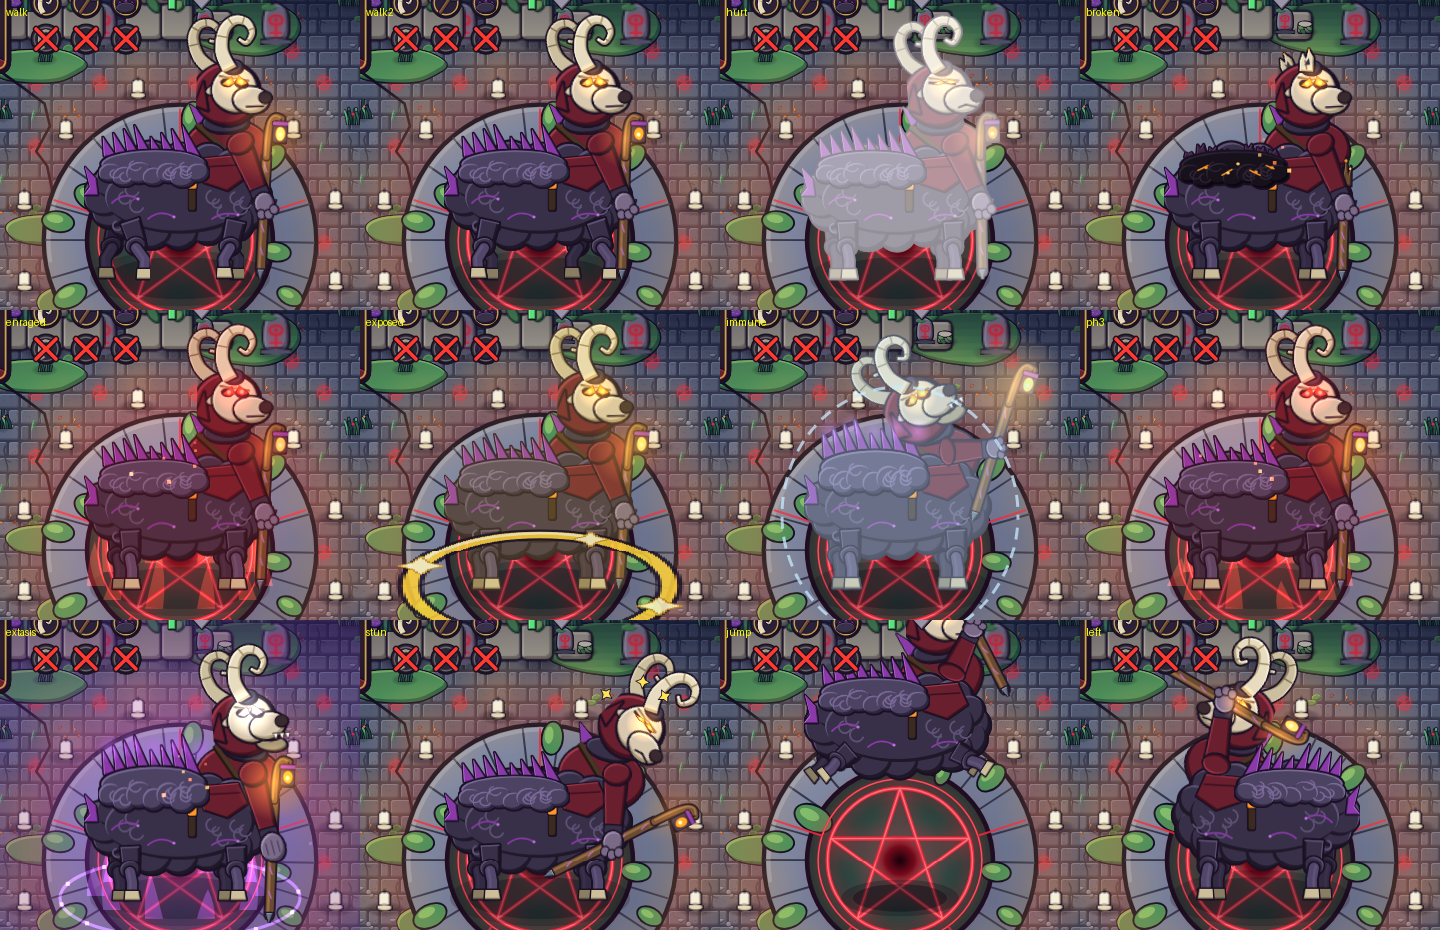
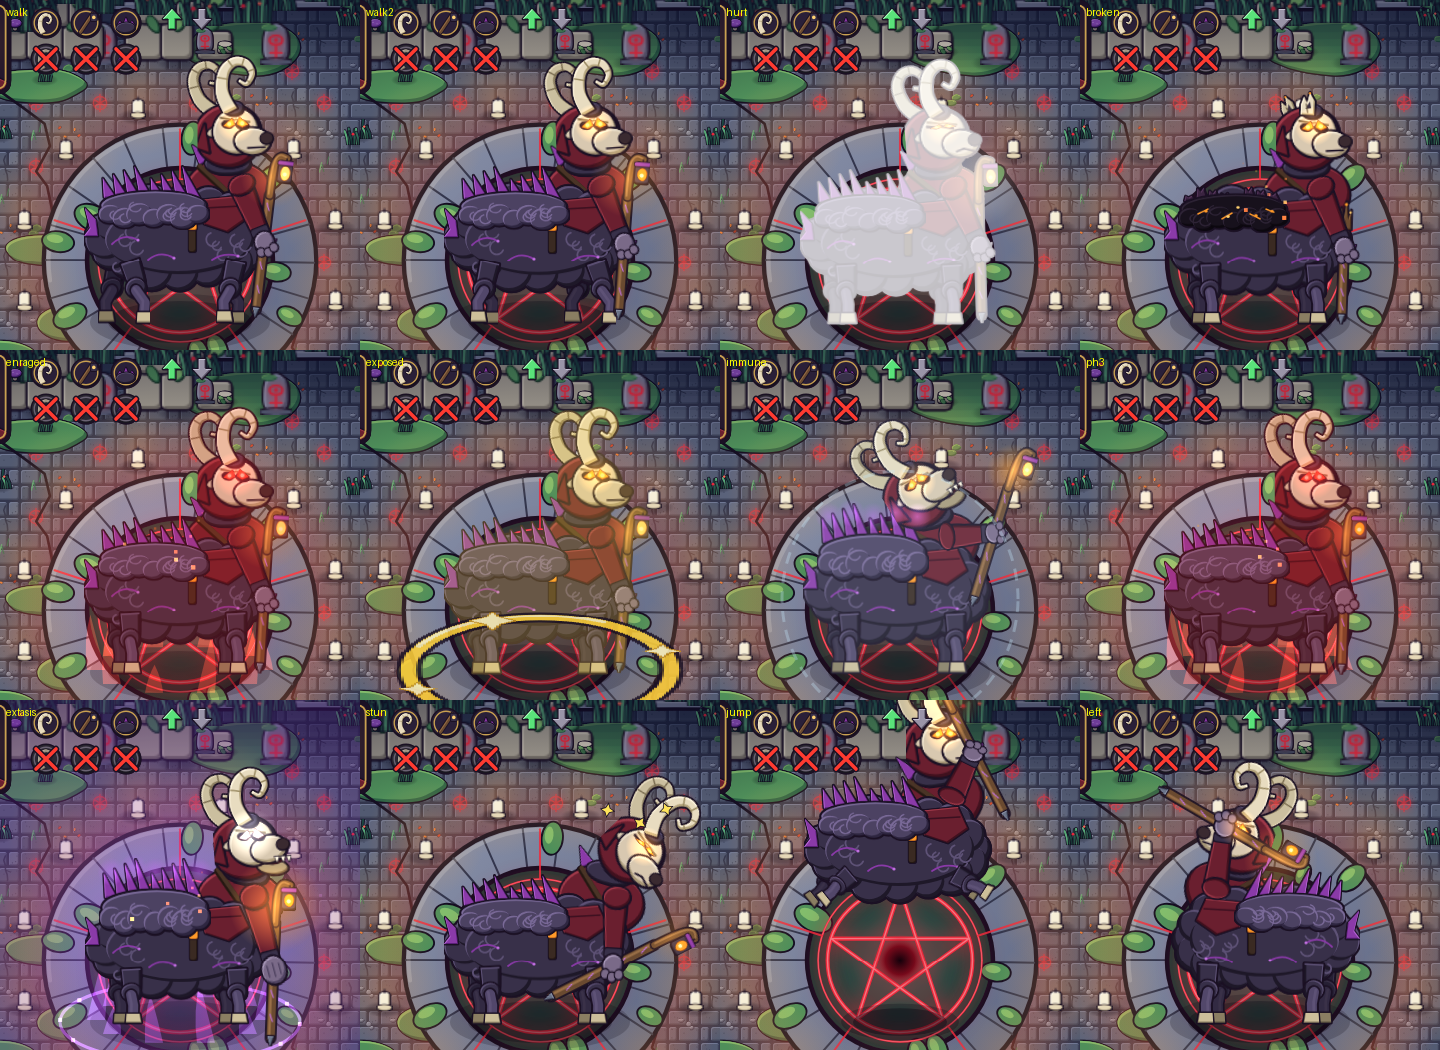
Arte del Pastor J1 terminado; lógica del jefe en curso
Claude-Session: https://claude.ai/code/session_01SEMe6xkUsnkQXVwvcKxXxh

diff --git a/tools/asset-preview/index.html b/tools/asset-preview/index.html
@@ -232,13 +232,13 @@
   function bossDraw(t) {
     if (!A.bossIds) return; var c = $('bossCv'), x = c.getContext('2d'), id = $('bid').value || 'pastor';
     x.imageSmoothingEnabled = false; x.drawImage(ground, 0, 0);
-    var s = bossState(t), bx = 480, by = 270;
+    var s = bossState(t), bx = 480, by = 250;
     if (s.w && $('btele').checked && s.windup) {
       var f = s.facing, k = BCOL[s.w], o = { p: s.pp, a: f > 0 ? 0 : Math.PI, sig: s.w === 'embestida' || s.w === 'salto' || s.w === 'pisoton' };
       if (k === 'arc') { o.r = 190; } if (k === 'rect') { o.w = 90; o.len = 420; } if (k === 'ring') { o.r = 300; o.th = 24; o.gap = Math.PI / 3; o.a = f > 0 ? Math.PI : 0; } if (k === 'circle') { o.r = 120; } if (k === 'cone') { o.r = 300; } if (k === 'summon') { o.r = 150; } if (k === 'spore') { o.r = 60; }
-      A.drawBossTele(x, k, bx, by + 44, o);
+      A.drawBossTele(x, k, bx, by, o);
     }
-    if (s.w === 'pisoton' && s.strike) A.drawBossWave(x, bx, by + 44, 40 + 260 * s.pp, { gap: Math.PI / 3, a: s.facing > 0 ? Math.PI : 0 });
+    if (s.w === 'pisoton' && s.strike) A.drawBossWave(x, bx, by, 40 + 260 * s.pp, { gap: Math.PI / 3, a: s.facing > 0 ? Math.PI : 0 });
     if (s.desperate) A.drawBossArenaTint(x, 960, 540, t, 1);
     if ($('bplayer').checked) { var pl = A.sprite('player', 'idle:' + ((t / 300) | 0)); x.drawImage(pl, 250 - 24, 330 - 24); }
     A.drawBoss(id, x, bx, by, s);

diff --git a/games/card-swarm/src/assets_boss.js b/games/card-swarm/src/assets_boss.js
@@ -520,7 +520,7 @@
   function chain() { var m = arguments[0], i; for (i = 1; i < arguments.length; i++) m = mM(m, arguments[i]); return m; }
 
   // ===================================================================== PASTOR: pose (todo en espacio L: origen = suelo bajo el centro del cuerpo, +x = adelante, +y = abajo)
-  var GY = 44;                     // el origen del suelo esta GY px por debajo de la posicion logica (x,y) de la entidad
+  var GY = 88;                     // el origen del suelo esta GY px por debajo de la posicion logica (x,y) de la entidad
   var NAMES = ['barrido', 'embestida', 'pisoton', 'salto', 'abanico', 'llamada', 'esporas', 'estampida', 'extasis'];
   var DEATH_MS = 3200;
   var HS = 0.78;                   // escala de dibujo de los cuernos

diff --git a/games/card-swarm/ASSETS_API.md b/games/card-swarm/ASSETS_API.md
@@ -200,3 +200,115 @@ Ancla = bottom-center salvo cielo/suelo (origen 0,0 a 960x540). Tamano final:
 - Orden de dibujo: cada prop tiene `sort`; los actores usan SUS PIES (`y`). Marlo con `y` > 308 queda delante de los edificios; con y<308 detras.
 - `Assets.drawVillageLight(ctx,t,opts)` incluye vineta y el brillo del portal. Coste medido: ~5 ms/frame para `drawVillage` completo (Chromium headless).
 - Vista previa: `tools/asset-preview/index.html?game=card-swarm` (seccion "Aldea Rescoldo": hora, animacion de NPC, colisiones). Capturas: `studio/docs/capturas-aldea/`.
+
+
+---
+# Jefes v4 (J1): Pastor Corrupto, centauro-carnero (src/assets_boss.js, cargado tras assets_village.js; solo arte, sin logica)
+Script clasico que extiende `window.Assets`. Estilo del juego (contorno grueso, color plano + sombra + brillo). Tamanos "final" = base x2. Todo mira a la DERECHA (el dibujo compuesto voltea con `facing`). `t` SIEMPRE en ms. Diseno: `DESIGN-v4-jefes.md` 3.2. Vista previa: `tools/asset-preview/index.html?game=card-swarm` -> seccion "Jefe" (selector de ataque/progreso, fase, vel., salto, herido/furia/desesperado/ventana/aturdido/inmune/rugido, partes rotas, muerte, anclajes). Capturas: `studio/docs/capturas-jefes-j1/`.
+
+## 1) Dibujar al jefe compuesto (lo unico que necesita la logica)
+`Assets.drawBoss('pastor', ctx, x, y, state)` dibuja sombra grande + aura + jefe + efectos propios (polvo, esporas, estrellas, aro de ventana, campo de inmunidad). Devuelve `{canvas,ox,oy,pose,layout}`.
+- **(x,y) = posicion logica de la entidad = centro del cuerpo (circulo de colision `r` 74)**. El sprite se coloca solo: los pies quedan en `y + 88` (`Assets.BOSS.pastor.gy`), la sombra en `y + 82`. **Ordenar por profundidad con `y + 88`** (pies) contra Marlo.
+- Tamano visual aprox.: 250 de alto x 250 de ancho (incl. cuernos y cayado en reposo: de y-182 a y+88; de x-100 a x+130). El circulo logico `r` 74 cubre el barril; cuernos/cabeza/cayado sobresalen (usar `bossAnchors` para hitboxes hijas).
+- Coste medido: ~2.8 ms/frame en Chromium headless sin GPU (1 canvas 640x470 compartido + 20 drawImage). Cachea sprites una sola vez; no hay `shadowBlur`.
+- `Assets.renderBoss('pastor', state)` -> `{canvas, ox, oy}`: solo el jefe (sin sombra/aura/fx de suelo), el canvas es COMPARTIDO y se sobrescribe en cada llamada (para subirlo a una textura Phaser: origen del suelo en (ox,oy), el pie queda en oy, la posicion logica en (ox, oy-88)).
+- `Assets.drawBossShadow(ctx,x,y,state)` (sombra sola; con `state.lift` se encoge y oscurece = telegrafia del salto). `state.noShadow`/`state.noFx` desactivan sombra / aura+fx.
+
+### state (todo opcional salvo `t`; el jefe no guarda estado propio, lo pintas desde tu IA)
+| campo | tipo | efecto |
+|---|---|---|
+| `t` | ms | reloj para idle/trote/parpadeos (obligatorio) |
+| `facing` | 1 / -1 | 1 mira a la derecha, -1 a la izquierda |
+| `phase` | 1-3 | ojos: F1 naranja, F2 rojo, F3 blanco; F3 suma brasas en el lomo |
+| `moving` | 0..1 o bool | trote de patas (4 frames, diagonales alternas) |
+| `speed` | px/s | velocidad real: marca el ritmo de trote (65 F1 / 80 F2 / 95 F3 = lento y pesado; >=400 = galope) |
+| `hurt` | 0..1 o bool | flash blanco sobre la silueta + retroceso + cabeza "dano" (usar 0.6-1 durante ~100 ms) |
+| `broken` | `{cuernos,cayado,vellon}` bool | cuernos: muñones; cayado: palo astillado y SIN farol (ni brillo); vellon: manto quemado con grietas y brasas que suben |
+| `windup` + `wp` | nombre + 0..1 | **telegrafia** del ataque; `wp` = progreso (tiempo/duracion_telegrafia). Sin `wp` hace bucle de 1,1 s (solo preview) |
+| `strike` + `sp` | nombre + 0..1 | **golpe/ejecucion** del ataque; `sp` = progreso. `strike` tiene prioridad sobre `windup` |
+| `lift` | px | altura del salto (0 = suelo). Con `lift>2` se pliegan las patas, el cuerpo se alza `lift` px y la sombra se achica |
+| `enraged` | bool | Furia: ojos rojos, tinte rojo pulsante y llamas rojas de aura |
+| `desperate` | bool | Exstasis del Rebano: cayado clavado, puas al maximo, ojos blancos, aura morada, anillo de runas, temblor. Equivale a `windup:'extasis'` |
+| `exposed` | bool | ventana de dano: aro dorado en el suelo (fx_window_ring) + tinte dorado pulsante |
+| `stun` | bool | aturdido tras chocar (embestida): cabeza gacha, estrellitas, cayado caido |
+| `immune` | bool | puerta de fase (3 s): tinte azulado + campo de puntos alrededor |
+| `roar` | 0..1 | rugido (intro / cambio de fase): cabeza arriba boca abierta, brazos abiertos, temblor |
+| `dying` + `dt` | bool + ms | muerte (ver 4); `dt` = ms desde que muere; `Assets.BOSS.pastor.deathMs` = 3200 (a partir de ahi no dibuja nada) |
+| `alpha` | 0..1 | transparencia global (p. ej. entrada) |
+
+Nombres de ataque (`windup` / `strike`; `Assets.bossPoseNames()`): `barrido` (arco con cayado), `embestida`, `pisoton`, `salto`, `abanico`, `llamada`, `esporas`, `estampida`, `extasis`. Lectura de cada pose (para que la telegrafia por silueta funcione, regla 1 del doc):
+| ataque | windup (wp 0->1) | strike (sp 0->1) |
+|---|---|---|
+| barrido | cayado se alza hacia atras/arriba sobre la cabeza, torso atras | barrido de 180 grados hacia delante, torso adelante, cabeza ruge |
+| embestida | cabeza y cuernos bajan, agacha el tren delantero, la pata delantera escarba, polvo, ojos rojos, cayado como lanza | galope (`speed` >= 520), cabeza gacha, lineas de velocidad y polvo detras |
+| pisoton | se encabrita (tren delantero arriba, patas plegadas, brazos arriba) | pisa de golpe: cuerpo +8 px, temblor, polvo (la onda la dibujas con `drawBossWave`) |
+| salto | se agacha (cuerpo aplastado), ojos se encienden | aterrizaje: aplasta, cayado se clava hacia delante, polvo |
+| abanico | puas del lomo se erizan y brillan, brazos abiertos, retrocede 3 px | puas al maximo con brillo naranja, rebote |
+| llamada | cayado en vertical, cabeza arriba y aullido, anillo de runas moradas en el suelo, farol brillante | pisotazo con cayado |
+| esporas | se encorva, el vellon tiembla y suelta nubes verdes (fx_spore_puff) | estallido de esporas |
+| estampida | igual que embestida pero mas rapida/agitada | galope |
+| extasis | (estado fijo) cayado clavado, aura morada | - |
+Duraciones de telegrafia: las del doc (barrido 800, embestida 900, pisoton 700, salto 1000, abanico 600, llamada 800, esporas 1000, estampida 700 ms): el dibujo no impone tiempos, solo reparte la pose por `wp`.
+
+## 2) Anclajes y hitboxes hijas
+`Assets.bossAnchors('pastor', state)` -> objeto con `{x,y,r}` en px **relativos a (x,y) de la entidad**, ya con `facing` y `lift` aplicados (sumar a la posicion del jefe). Sigue las animaciones: usa el MISMO state que `drawBoss`.
+| clave | que es | r | reposo (facing 1) |
+|---|---|---|---|
+| `body` | centro del barril (hurtbox de contacto) | 74 | (0, -4) |
+| `head` | cabeza | 26 | (55, -105) |
+| `cuernos` | parte rompible "cuernos" | 30 | (51, -130) |
+| `cayado` | parte rompible "cayado" (farol) | 26 | (87, -58) |
+| `vellon` | parte rompible "vellon" (lomo) | 34 | (-26, -40) |
+| `hand` / `shoulder` / `mouth` / `eyes` / `staffTip` | mano que agarra el cayado, hombro, hocico (origen de esporas/rugido), ojos, punta del cayado | 12/10/10/8/8 | - |
+| `feet` | suelo bajo el cuerpo (orden de profundidad) | 0 | (0, 88) |
+| `groundShadow` | centro de la sombra | 86 | (0, 82) |
+Valores de reposo exactos: llamar a la funcion (cambian con la pose, p. ej. en `embestida` la cabeza avanza a x=104 y en `barrido` el cayado sube a y=-126).
+
+## 3) Piezas sueltas (sprites; anclas y pivotes para quien quiera recomponer)
+Todos en `Assets.sprite(name, frame)`. El dibujo compuesto usa jerarquia cuerpo -> torso -> cabeza/hombros -> cuernos/ojos; mano y cayado por cinematica inversa simple (el brazo se estira 0,7-1,45x hasta la mano). Coordenadas en espacio L: origen = suelo bajo el centro del cuerpo, +x adelante, +y abajo (la entidad esta en (0,-88)).
+| sprite | final | frames | pivote/ancla (px finales, dentro del sprite) -> colocacion en L |
+|---|---|---|---|
+| `boss_pastor_body` | 192x144 | 0-1 idle (respiracion, ~1,6 Hz) | arriba-izq en (-96,-174); rota/aplasta alrededor de los pies traseros (-55,-8) |
+| `boss_pastor_leg` | 40x72 | 0-3 trote lado cercano (contacto, bajo el cuerpo, atras, levantada), 4-7 lado lejano (mas oscuro) | cadera (20,10) -> caderas en x -62 (lejana trasera), -50, 44 (lejana delantera), 56 (cercana delantera), y=-62. Diagonales en fase |
+| `boss_pastor_torso` | 96x112 | 0 idle, 1 windup (puas erizadas), 2 golpe | cintura = centro-abajo (48,112) -> (46,-84); gira alrededor de la cintura |
+| `boss_pastor_head` | 64x64 | 0 neutro, 1 rugido, 2 dano/aturdido | cuello (32,56) -> torso+(8,-80), escala x1,2 al dibujar |
+| `boss_pastor_eyes` | 24x12 | 0 naranja, 1 rojo, 2 blanco | centro (12,6) -> cabeza (0,-33). Brillo aditivo aparte |
+| `boss_pastor_horn_l` / `_r` | 48x64 | 0 entero, 1 roto (muñon) | base (16,60) -> cabeza (-20,-42) rot -0.42 (lejano) y (-6,-44) (cercano), escala 0,78 |
+| `boss_pastor_staff` | 40x176 | 0-1 entero (farol, 6 fps), 2 roto | agarre (20,100) -> en la mano; punta de hierro 76 px bajo el agarre; farol 66 px sobre el agarre |
+| `boss_pastor_arm` | 44x84 | 0 cercano, 1 lejano (oscuro), 2 punyo | hombro (22,12); mano a ~56 px |
+| `boss_pastor_fleece` | 112x80 | 0 entero (manto + 8 puas moradas), 1 roto/brasas | base-centro (56,80) -> (-26,-96); se escala en y con `abanico` |
+| `boss_pastor_portrait` | 96x96 | 0 neutro, 1 furia, 2 herido (marco incluido) | `Assets.drawBossPortrait('pastor', ctx, x, y, {size:96, mood:0|1|2})` (x,y esquina sup. izq.) para barra e intro |
+
+## 4) Muerte espectacular (`dying:true, dt:ms`)
+0-150 ms flash blanco; 0-800 tambalea (parpadeos blancos, temblor, rugido de dolor); 500 ms: cuernos, cayado y vellon salen despedidos girando (solo las piezas que no estuvieran ya rotas); 800-1800 cae de rodillas (patas plegadas, cabeza gacha); 1800-3200 se desintegra en brasas (cuadros + brasas aditivas). A los 3200 no pinta nada (puedes quitar la entidad). Recomendado: `fx.shake(12, 900)`, hit-stop 120 ms, y para "congelado de 400 ms" del Exstasis basta con no avanzar `dt`.
+
+## 5) Telegrafias y ondas (dibujan en `ctx`, coordenadas de juego)
+- `Assets.drawBossTele(ctx, kind, x, y, o)`: `kind` = `circle{r}` | `arc{r,inner,arc}` (barrido: `arc` 180 grados, `inner` 40 = rosquilla) | `cone{r,arc}` (abanico 70 grados) | `rect`/`lane{w,len}` (embestida 90x520, estampida 90x420) | `ring{r,th,gap}` (pisoton: anillo creciente con hueco de 60 grados y chevrones verdes en el hueco) | `donut{r,inner}` | `summon{r}` (llamada, morado con runas) | `spore{r}` (esporas, verde punteado que se cierra).
+  `o`: `p` 0..1 progreso (relleno alfa 0,12->0,40 + capa de progreso), `a` angulo (rad), `color` (`red|green|purple|orange|gold|blue`; por defecto rojo, `summon` morado, `spore` verde), `fix` (por defecto `p>=0.75`: contorno SOLIDO = objetivo fijado; antes es discontinuo y animado), `sig:true` ataque firma (doble contorno), `t` ms. Alfa maximo ~0,4: Marlo siempre se ve debajo.
+- `Assets.drawBossWave(ctx, x, y, r, {th:24, gap:rad (0 = sin hueco), a:centro del hueco, style:0 rojo|1 morado (extasis)|2 verde, alpha})`: onda anular con hueco, hecha con `fx_shockwave_seg` (un segmento por ~46 px).
+- `Assets.drawBossVignette(ctx, W, H, p, '255,30,20')` vineta roja de ataque firma; `Assets.drawBossArenaTint(ctx, W, H, t, a)` tinte morado de arena del Exstasis.
+
+## 6) VFX / proyectiles / arena / iconos nuevos (nombre, tam final, frames, ancla)
+| sprite | final | frames (anim) | notas |
+|---|---|---|---|
+| `proj_boss_thorn` | 32x16 | 0-1 (`loop` 10 fps) | pua grande morada con punta naranja; apunta a la derecha (rotar al angulo); centrada |
+| `fx_shockwave_seg` | 128x32 | 0 rojo, 1 morado, 2 verde | segmento de onda (lo usa `drawBossWave`) |
+| `fx_boss_crack` | 96x96 | 0-2 (`grow`, no cicla) | grieta del suelo (salto, pisoton), centrada |
+| `fx_part_break` | 128x128 | 0-4 (`burst` 14 fps, no cicla) | estallido al romper una parte; centrado en la parte |
+| `fx_window_ring` | 128x128 | 0-3 (`loop` 8 fps) | aro dorado; el dibujo compuesto ya lo usa si `exposed` |
+| `fx_boss_spike` | 28x44 | 0-3 (`rise` [0,1,2] 12 fps; `sink` [3,0]) | estaca de suelo (espinas del Salto, F2); ancla = base-centro (14,42) |
+| `fx_charge_trail` | 96x56 | 0-3 (`puff` 10 fps) | polvo de la embestida; centrado, mira a la derecha (voltear segun direccion) |
+| `fx_spore_puff` | 32x32 | 0-3 (`puff` 8 fps) | nube de espora/vellon, centrada (escalar 1-2,5x) |
+| `obs_log` | 64x64 | 0 entero, 1 agrietado, 2 escombro | tronco de arena; ancla = centro del circulo de colision (32,40) -> dibujar en (x-32, y-40); r de colision 28 |
+| `fx_thorn_patch` | 80x56 | 0-2 (`sway` [0,1,2,1] 3 fps) | zarzal de espinas de borde F2 (verde): ancla centro (40,38); escalable para cubrir la zona lenta |
+| `trophy_pastor_horn` / `_staff` / `_fleece` | 32x32 | 0 normal, 1 ROTO (gris con aspa roja) | icono de parte para la barra (dibujar a 16x16 = escala 0,5) y trofeo de botin |
+| `icon_weak` / `icon_resist` | 24x24 | 1 | flecha verde arriba / gris abajo (12 px a escala 0,5) |
+Reusa existentes: `fx_fire_cell` (44x44, celdas del perimetro ardiendo F3, naranja), `shockwave` (onda sin dano del aterrizaje de la entrada), `smoke_big`, `explosion`.
+
+## 7) Notas para la logica / HUD
+- **No tapar a Marlo**: todas las telegrafias <= 0,4 de alfa y sin relleno solido; el jefe se ordena por `y + 88` (si Marlo esta mas abajo se dibuja delante). El aura/aro de ventana van en el suelo bajo el jefe.
+- Entrada: `drawBoss` con `windup:'salto', wp` (agachado) -> `lift` creciente (aire) -> `strike:'salto'` al aterrizar + `shockwave` + `fx.shake(8,220)`. Rugido de intro/fase: `roar` 0->1 ~600 ms.
+- Partes: hitboxes hijas = `bossAnchors().cuernos/cayado/vellon`; al romperse pon `broken.X=true` y lanza `fx_part_break` en el ancla.
+- Cayado roto: sin farol (la Llamada del rebano pasa a gusanos); cuernos rotos: se ve el muñon; vellon roto: brasas visibles desde cualquier distancia.
+- Nombres de jefes/fases para la barra: `Assets.BOSS.pastor` = `{name:'El Pastor Corrupto', title:'Bestia del Rebaño', phases:['El Rebaño','La Corrupción','Cenizas'], despair:'Éxtasis del Rebaño', r:74, gy:88, w:250, h:250, deathMs:3200}`; `Assets.bossIds()`, `Assets.bossInfo(id)`.
+- Karceron y Letea (J2) usaran la misma API (`drawBoss(id,...)`, `bossAnchors`, `drawBossPortrait`); sus sprites iran en `assets_boss_karceron.js`/`assets_boss_letea.js` segun la lista 6.1 del diseno.

diff --git a/tools/asset-preview/README.md b/tools/asset-preview/README.md
@@ -5,3 +5,4 @@ Sprites: boton "PNG spritesheet" por sprite y "Exportar atlas PNG" (+JSON). Soni
 Selector de bioma (bosque/cripta) y arena animada con antorchas, niebla y vineta.
 Para Swarm Hand v2 abrir `index.html?game=card-swarm` (carga assets.js + assets_enemies2.js).
 Aldea de Rescoldo (Swarm Hand v3): con `?game=card-swarm` aparece la vista "Aldea" (hora dia/ocaso/noche, animacion de NPC, colisiones) y los sprites `npc_*`, `portrait_*`, `vil_*`, `ui_*` en la lista.
+Jefes (Swarm Hand v4, J1): con `?game=card-swarm` aparece la vista "Jefe" (Pastor Corrupto: ataque/progreso, fase, velocidad, salto, herido/furia/desesperado/ventana/aturdido/inmune/rugido, partes rotas, muerte por dt, anclajes). Contrato en `games/card-swarm/ASSETS_API.md`; capturas en `studio/docs/capturas-jefes-j1/`.
